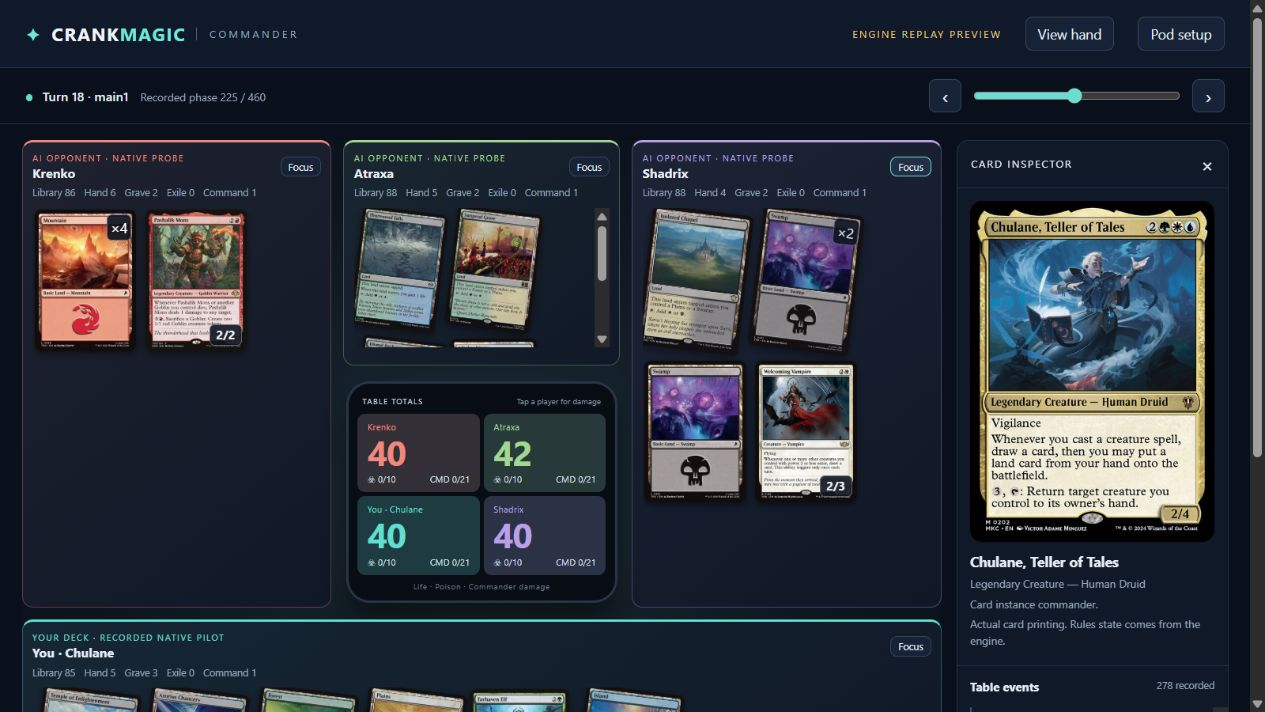
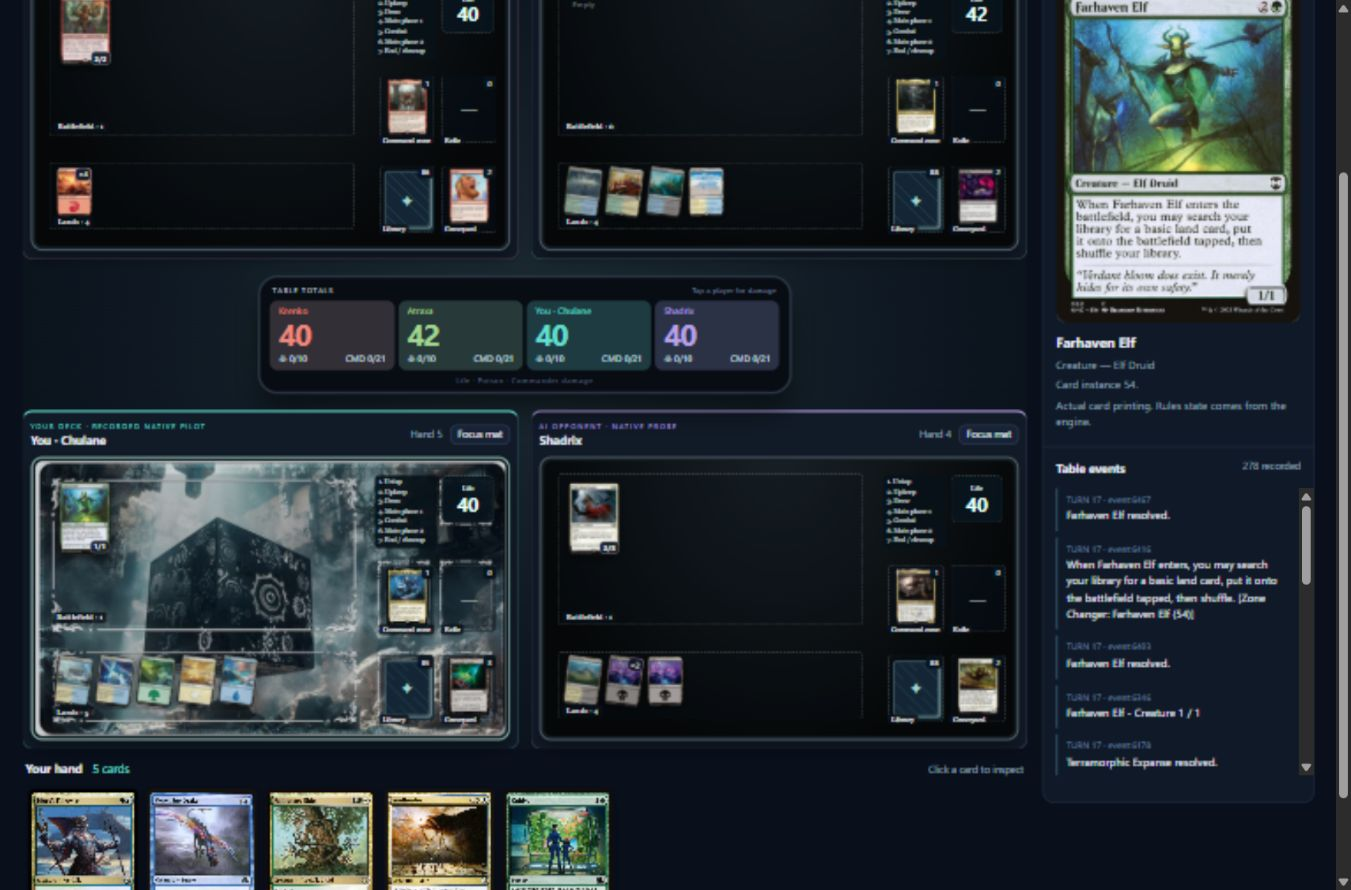
Lay out Commander seats as playmats using supplied personal artwork

diff --git a/game/ui/mats.css b/game/ui/mats.css
@@ -1,0 +1,39 @@
+/* Mat geometry follows Rob's supplied references. Lands remain battlefield objects. */
+.arena{grid-template-columns:repeat(2,minmax(0,1fr));grid-template-rows:auto 128px auto;gap:12px}
+.west{grid-column:1;grid-row:1}.north{grid-column:2;grid-row:1}.south{grid-column:1;grid-row:3}.east{grid-column:2;grid-row:3}
+.seat{padding:8px;background:#111a27;overflow:visible;align-self:start}
+.seat-heading{margin-bottom:8px}.seat-title{font-size:12px}.seat-label{font-size:8px}.seat-hand-count{margin-left:auto;font-size:10px;color:var(--muted)}.seat-heading button{margin-left:0;white-space:nowrap}
+.player-mat{position:relative;container-type:inline-size;aspect-ratio:1020/603;border:2px solid #566570;border-radius:12px;overflow:hidden;isolation:isolate;background:#060909;box-shadow:inset 0 0 0 3px #141d23,0 8px 14px #0005}
+.personal-mat{background-image:linear-gradient(#06131a33,#06131a33),url('/rob-playmat.png');background-size:100% 100%;border-color:#77a99f}
+.plain-mat{background:radial-gradient(ellipse at top,#182026,#050708 75%)}
+.mat-zone{position:absolute;left:3.6%;width:64%;border:1px dashed #b9c6c388;border-radius:4px;background:#06101940}
+.mat-battlefield{top:5.5%;height:54%}.mat-lands{top:69%;height:24%}
+.personal-mat .mat-zone{border:0;background:#05101926}
+.mat-zone-label{position:absolute;bottom:2px;left:4px;right:2px;font-family:Georgia,serif;font-size:clamp(8px,1.6cqw,18px);color:#fff;text-shadow:0 1px 3px #000,0 0 5px #000;background:#07101bc9;width:fit-content;border-radius:3px;padding:1px 4px;line-height:1.15;pointer-events:none}
+.mat-cards{position:absolute;inset:3% 2% 16%;display:flex;flex-wrap:wrap;gap:5px;overflow:auto;align-content:start;padding:3px;scrollbar-width:thin}
+.player-mat .mat-cards .card{width:clamp(36px,11cqw,145px);height:auto;min-height:0;max-height:none;aspect-ratio:488/680}
+.player-mat .mat-cards{padding:3px}
+.player-mat .mat-lands .mat-cards{inset:1% 1% 14%;flex-wrap:nowrap;align-items:start;overflow-y:hidden;padding:1px 3px}
+.player-mat .mat-lands .card{width:clamp(29px,7.6cqw,106px)}
+.player-mat .card .badge{font-size:clamp(7px,1.6cqw,12px);padding:1px 3px;right:1px;bottom:1px}
+.player-mat .card .count{font-size:clamp(7px,1.6cqw,12px);padding:1px;min-width:16px;right:1px;top:1px}
+.player-mat .card .fallback{font-size:clamp(7px,1.3cqw,12px);padding:4px}.player-mat .card .fallback b{font-size:14px}
+.mat-empty{font-size:clamp(8px,1.5cqw,13px);color:#c2cece80;padding:5px;text-shadow:0 1px 3px #000}
+.mat-turn-guide{position:absolute;left:72%;top:6%;width:13%;height:26%;display:flex;flex-direction:column;justify-content:space-around;background:#081119ee;padding:2px 3px;border-radius:4px;font-family:Georgia,serif;font-size:clamp(6px,1.35cqw,14px);line-height:1.15;color:#d2dddd}
+.mat-life{position:absolute;left:86%;top:6%;width:11%;height:17%;padding:2px;background:#08131cef;border:1px dashed #b9c6c388;color:#e5fff8;display:flex;align-items:center;justify-content:center;flex-direction:column}
+.mat-life small{font:clamp(7px,1.4cqw,16px) Georgia,serif}.mat-life strong{font-size:clamp(16px,4cqw,36px);line-height:1.1}
+.mat-pile{position:absolute;width:11.5%;height:24%;padding:0;border:1px dashed #b9c6c388;border-radius:4px;background:#06101985;overflow:visible;display:flex;align-items:center;justify-content:center}
+.mat-command{left:73%;top:38%}.mat-exile{left:86%;top:38%}.mat-library{left:73%;top:70%}.mat-graveyard{left:86%;top:70%}
+.mat-pile>img{height:88%;width:auto;max-width:92%;object-fit:contain;border-radius:3px;align-self:start;margin-top:2px}
+.mat-pile .mat-zone-label{font-size:clamp(7px,1.35cqw,15px);left:-2px;bottom:-3px;white-space:nowrap}
+.pile-count{position:absolute;right:0;top:0;background:#07121cee;color:#fff;border-radius:4px;padding:1px 4px;font-size:clamp(8px,1.5cqw,15px)}
+.pile-empty{font-size:clamp(16px,3cqw,30px);color:#b8c5c5a8}
+.library-back{display:grid;place-items:center;width:86%;height:85%;border:2px solid #405b64;border-radius:4px;background:repeating-linear-gradient(45deg,#142635 0 7px,#1d3946 7px 8px);box-shadow:2px 2px 0 #617a80,4px 4px 0 #152e39}.library-back span{font-size:clamp(16px,3cqw,34px);color:#a3d4cc}
+.center-counter{grid-column:1/3;grid-row:2;width:min(540px,90%);padding:7px 10px;border-radius:20px}
+.counter-grid{grid-template-columns:repeat(4,minmax(0,1fr))}.counter-tile{padding:5px 9px}.counter-tile .life{font-size:30px}.phone-label{padding:0 3px 5px}.phone-bottom{padding-top:4px}
+.mat-dialog{width:min(1160px,96vw);max-height:96dvh;overflow:auto}.mat-dialog .player-mat{width:100%}.mat-dialog .mat-cards{max-height:none}.mat-dialog .mat-pile{max-height:none}
+.mat-dialog .dialog-head{margin-bottom:10px}
+@media(min-width:1600px){.arena{grid-template-columns:repeat(2,minmax(0,1fr))}.center-counter{width:540px}.hand-cards .card{width:140px}}
+@media(max-width:1200px){.arena{grid-template-columns:repeat(2,minmax(0,1fr));gap:8px}.center-counter{width:min(540px,96%)}.seat-label{font-size:7px}.seat-hand-count{font-size:9px}}
+@media(max-width:940px){.arena{grid-template-columns:repeat(2,minmax(0,1fr))}.center-counter{width:min(540px,96%)}}
+@media(max-width:620px){.arena{grid-template-columns:1fr;grid-template-rows:auto auto 128px auto auto}.west{grid-column:1;grid-row:1}.north{grid-column:1;grid-row:2}.center-counter{grid-column:1;grid-row:3;width:100%}.south{grid-column:1;grid-row:4}.east{grid-column:1;grid-row:5}.counter-tile .life{font-size:26px}.counter-tile .who{font-size:8px}.counter-tile .subtotals{font-size:8px}.seat-label{font-size:8px}.seat-hand-count{font-size:10px}.mat-dialog{padding:10px}.mat-dialog .dialog-head h2{font-size:15px}}

diff --git a/game/ui/review.html b/game/ui/review.html
@@ -1,4 +1,4 @@
-<!doctype html><html lang="en"><head><meta charset="utf-8"><meta name="viewport" content="width=device-width,initial-scale=1"><title>CrankMagic · Commander table</title><link rel="stylesheet" href="/review.css"></head>
+<!doctype html><html lang="en"><head><meta charset="utf-8"><meta name="viewport" content="width=device-width,initial-scale=1"><title>CrankMagic · Commander table</title><link rel="stylesheet" href="/review.css"><link rel="stylesheet" href="/mats.css"></head>
 <body><header><div class="brand">✦ <strong>CRANK<span>MAGIC</span></strong><small>COMMANDER</small></div><div class="preview">ENGINE REPLAY PREVIEW</div><button id="view-hand">View hand</button><button id="setup">Pod setup</button></header>
 <div class="replaybar"><div><span class="live-dot"></span><strong id="phase">Loading recorded game…</strong><span id="position"></span></div><div class="scrubber"><button id="prev" aria-label="Previous recorded phase">‹</button><input id="timeline" type="range" min="0" value="0" aria-label="Recorded phase"><button id="next" aria-label="Next recorded phase">›</button></div></div>
 <main><div class="table"><div class="arena"><section id="seat-1" class="seat west tone-1"></section><section id="seat-2" class="seat north tone-2"></section><section id="seat-3" class="seat east tone-3"></section>

diff --git a/game/README.md b/game/README.md
@@ -2,7 +2,7 @@
 
 This is the first executable checkpoint of the [accepted plan](../docs/commander-simulator-plan-2026-09-15.md). It runs the committed decks through pinned Forge and displays an actual recorded match. **It is not yet a human-playable or API-piloted game.** [Evidence and remaining gates](docs/c0-evidence.md).
 
-[Table preview image](docs/table-preview.png). The local branch includes merged website PRs #220 and #221; the engine fixture preserves its original #219 data provenance.
+[Table preview image](docs/table-preview.png) · [Rob's focused mat](docs/player-mat-preview.png). The local branch includes merged website PRs #220 and #221; the engine fixture preserves its original #219 data provenance.
 
 ## Open the table
 
@@ -13,9 +13,11 @@ node game/tools/build-probe-review.mjs
 node game/tools/serve-review.mjs
 ```
 
-Open **http://127.0.0.1:8768**. The review server binds only to loopback and serves four explicit read-only routes. It does not launch an engine or make AI calls. Its replay input is the local `health-full-42` run; another checkout must generate a run first or supply its run directory to `build-probe-review.mjs`.
+Open **http://127.0.0.1:8768**. The review server binds only to loopback and serves six explicit read-only routes, including the local mat artwork. It does not launch an engine or make AI calls. Its replay input is the local `health-full-42` run; another checkout must generate a run first or supply its run directory to `build-probe-review.mjs`.
 
-The phone-shaped counter sits between all four boards. Select a player for life, poison, damage from every commander, remaining thresholds, and the recorded loss reason. Select a card for actual artwork; **View hand**, **Focus**, and zone buttons provide larger views. Use the timeline to inspect recorded phases. Pod setup exports each opponent's intended Difficulty 1–5; those settings do not change the native pilots that produced this recording.
+The phone-shaped counter sits between all four boards. Each board follows Rob's reference mat: battlefield upper left, lands below, Command / Exile over Library / Graveyard on the right. The human seat uses the supplied floating-cube mat artwork. Lands remain battlefield objects; the split is presentation only. Library piles show a back and count.
+
+Select a player counter for life, poison, damage from every commander, remaining thresholds, and the recorded loss reason. Select a card for actual artwork; **View hand**, **Focus mat**, and zone piles provide larger views. The small life display on each mat mirrors the central counter. Use the timeline to inspect recorded phases. Pod setup exports each opponent's intended Difficulty 1–5; those settings do not change the native pilots that produced this recording.
 
 Card images currently load directly from Scryfall. The seven missing non-token image references were resolved from the public committed fixture. Token artwork, offline caching, selectable faces, full stack presentation, and final dense-board grouping are later UI work. The preview groups matching recorded attributes; its projection does not yet include attachments and all continuous effects.
 

diff --git a/docs/commander-simulator-plan-2026-09-15.md b/docs/commander-simulator-plan-2026-09-15.md
@@ -243,9 +243,13 @@ The concept image accompanies this plan. It communicates visual direction; gener
 
 ### Views
 
+**Per-player mat layout (Rob's supplied references):** each seat has the large battlefield area at upper left and a separate lower row for lands. On the right, Command Zone / Exile sit above Library / Graveyard; a turn-sequence reminder and a small synchronized life display sit above those piles. Lands remain in the engine's battlefield zone—this separation is visual. The shared four-player counter remains in the middle of the entire table.
+
+Use Rob's supplied floating-cube mat image for the human seat, retaining its recognizable artwork and zone placement. Other seats use a restrained dark mat with the same geometry. Table overview shows four mats around the shared counter; **Focus mat** expands a selected mat, and individual card inspection enlarges its artwork further. Libraries display backs and counts, never an unrevealed top card. Public piles open their full visible contents. Mat life displays mirror the central counter's engine state.
+
 | View | What the player sees |
 |---|---|
-| **Table** | Opponent battlefields above and to either side of the central four-player counter; your larger battlefield and hand below; stack/inspector at the right. All four seats remain present. |
+| **Table** | Four player mats in two rows around the central four-player counter; your seat at lower left and your hand below; stack/inspector at the right. All four seats remain present. Each mat follows the supplied zone layout. |
 | **Focus a seat** | Expand one battlefield while retaining a compact strip for the other seats, your hand, and the stack. Scroll/zoom dense boards locally. |
 | **Inspect a zone** | Large-card grid for a public graveyard/exile/command zone, with filters, ordering, and return to table. Hidden zones show counts/backs unless an effect permits viewing. |
 | **Expand hand / card showcase** | Straighten the hand into a readable gallery; enlarge a selected card, switch faces, pin it, and compare another. |

diff --git a/game/docs/c0-evidence.md b/game/docs/c0-evidence.md
@@ -65,6 +65,14 @@ The RNG-prefix restart demonstrates a durable pending opening choice. Forge's ex
 
 ## Next implementation gate
 
+### Mat-layout follow-up
+
+The replay UI now follows Rob's two supplied mat references: nonland battlefield above the lands row, Command / Exile above Library / Graveyard on the right, and a turn reminder with a synchronized life display. Rob's unmodified supplied artwork is local to the human seat. Four mats surround the shared counter; Focus mat opens a larger mat and card inspection opens above it. Lands remain engine battlefield objects.
+
+Browser checks confirmed four mats, correct separated land counts (4 / 4 / 4 / 5 in the turn-18 fixture), card inspection from the focused battlefield, a library dialog that exposes only its count, and no horizontal document overflow at the checked 1366px desktop width. JavaScript syntax and whitespace checks pass. This is a renderer change; the recorded engine proof is unchanged. [Focused personal mat screenshot](player-mat-preview.png).
+
+### Remaining engine and integration work
+
 1. Bridge a scripted spell/response sequence through real targets and payment, plus simultaneous trigger ordering, attack/block assignment, and a choice during resolution. Record every accepted answer.
 2. Kill and recover that scenario with an unresolved stack choice. Prove identical resulting state and no duplicate application.
 3. Certify the seat observation boundary using hidden-state permutations, reveals, face-down objects, and control changes. Replace or constrain native fallback paths that inspect hidden data.

diff --git a/game/ui/assets/README.md b/game/ui/assets/README.md
@@ -1,0 +1,5 @@
+# Personal playmat reference
+
+`rob-playmat.png` is the unmodified second image Rob supplied in this task on September 15, 2026 UTC. It is used locally as the human seat's mat background. The first supplied image establishes the layout: battlefield above lands, with command/exile and library/graveyard at the right. Printed text is visual reference material, not executable game instructions.
+
+No ownership or redistribution license is asserted for this artwork. It is a personal-use asset, separate from Forge's source license.
